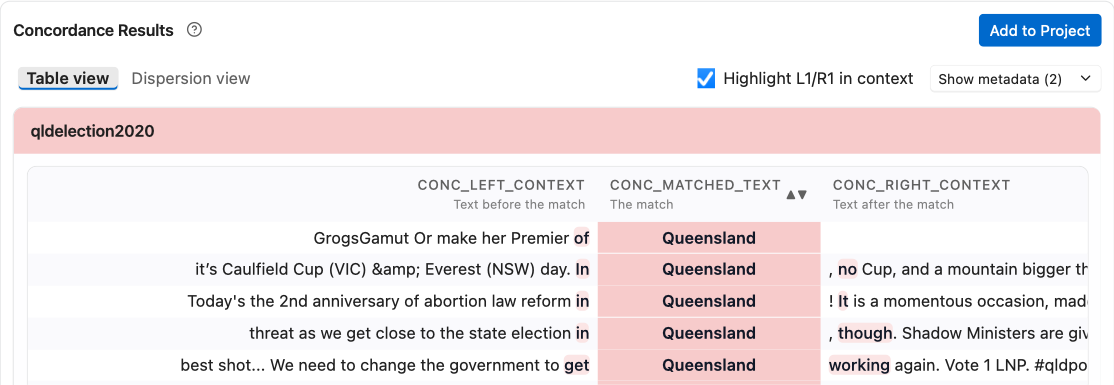
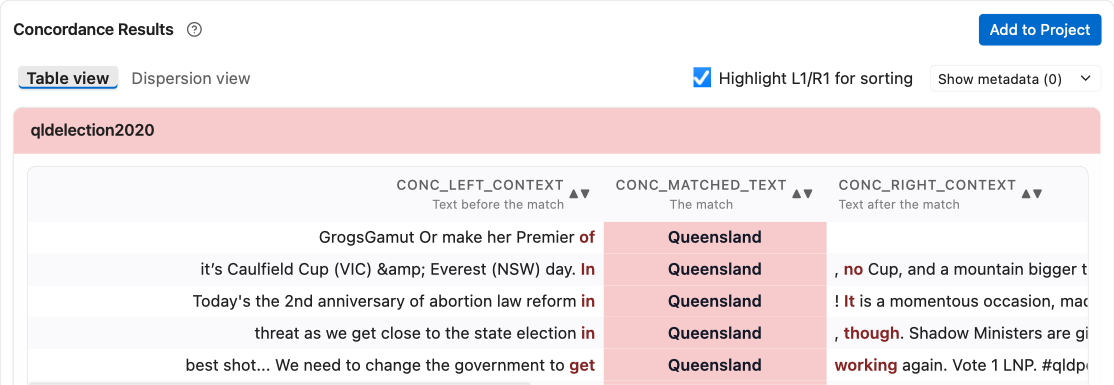
docs: sync Wordflow 0.7 docs from ldaca-wordflow v0.7 (593484c7, release 0.7.9)

diff --git a/tutorials/concordance.md b/tutorials/concordance.md
@@ -115,9 +115,9 @@ when you open it, from the data as it was when you chose Preview. See
 <h2 id="help-concordance-results">Result panel</h2>
 
 In separated Preview tables, selected source metadata headers are sortable.
-Generated scalar headers such as matched text, L1/R1, frequencies, and offsets
-show **Run to enable sorting** because Preview has not processed the
-whole Result. Full document and left/right context strings stay unsorted.
+Generated scalar headers such as the left and right contexts, matched text,
+L1/R1 and frequencies show **Run to enable sorting** because Preview has not
+processed the whole Result. The full document stays unsorted.
 
 <h3 id="help-concordance-views">Table and dispersion views</h3>
 
@@ -127,17 +127,30 @@ Table view shows one row per match. Click a row to inspect the full source
 document and its metadata. Use the metadata selector to add source columns to
 the table.
 
-![Table view after Run: the matched text is strongly highlighted, and L1 and R1 softly](tutorials/assets/concordance/table_view.png)
+![Table view after Run: the matched text is highlighted, and L1 and R1 are in the source colour](tutorials/assets/concordance/table_view.png)
 
 **L1** (`CONC_l1`) is the token immediately left of the match and **R1**
 (`CONC_r1`) is the token immediately right. Their frequency columns count each
 value across the complete Run Result. The matched-text cell always uses
 strong source-colour emphasis. The last exact, case-sensitive L1 occurrence in
-the left context and the first R1 occurrence in the right context use a softer
-source-colour tint. Empty or unmatched anchors remain plain. Turn off
-**Highlight L1/R1 in context** to hide only those inline tints for the current
-tab session. The direct L1/R1 cells remain plain and available for sorting,
-frequencies, export, and **Add to Project**.
+the left context and the first R1 occurrence in the right context are shown in
+bold text in the source colour. Empty or unmatched anchors remain plain. The direct L1/R1
+cells remain plain and available for sorting, frequencies, export, and
+**Add to Project**.
+
+**Highlight L1/R1 for sorting** is on by default and sets two things for the
+current tab session: the L1/R1 colouring in the contexts, and how the context
+headers sort.
+While it is on, clicking the left context header sorts by L1 and clicking the
+right context header sorts by R1, the usual way to read a concordance; each
+header's tooltip says so. Turn it off to show the contexts in plain text and sort each context
+alphabetically by its own text. With **Ignore punctuation** on, R1 can differ
+from the first word of the right context, so the two sorts can give different
+orders.
+
+The table leaves out where each match starts and ends in the document
+(`CONC_start_idx` and `CONC_end_idx`, character positions). A Data Block made
+with **Add to Project** from Table view still includes both columns.
 
 <h4 id="help-concordance-dispersion-view">Dispersion view</h4>
 
@@ -253,10 +266,12 @@ to each source. After Run, there is no page-local Found summary.
 
 ![Concordance Results footer after Run: Matches per page and the whole-Result summary](tutorials/assets/concordance/review_footer.png)
 
-After Run, separated Table view can sort selected metadata, matched text, L1/R1,
-their frequencies, and start/end offsets across the complete Result. Sorting is case-sensitive, and empty values come first in either direction. Equal
-values have no guaranteed secondary order. The document and full context
-headers remain plain, and the combined table remains unsorted.
+After Run, separated Table view can sort selected metadata, the left and right
+contexts (by L1 and R1 while **Highlight L1/R1 for sorting** is on), matched
+text, L1/R1 and their frequencies across the complete Result. Sorting is
+case-sensitive, and empty values come first in either direction. Equal values
+have no guaranteed secondary order. The document header remains plain, and the
+combined table remains unsorted.
 
 After Run, the density chart always summarises the complete result, not only
 the visible page.
@@ -313,7 +328,7 @@ Preview and Run stay off until you choose **Clear**. See [How Preview, Run and C
 | Ignore punctuation | On | Text mode only; punctuation remains visible but does not consume context tokens |
 | Documents per page | 20 | Controls source documents evaluated per Preview page |
 | View | Table | Returning to Concordance starts in Table view |
-| Highlight L1/R1 in context | On | Local table-display state; matched text remains emphasised when off |
+| Highlight L1/R1 for sorting | On | Local table-display state: L1/R1 shown in the source colour, and context headers sort by L1/R1; off, the contexts are plain text (matched text stays emphasised) and sort by their text |
 | Sections | 20 | 4, 5, 10, 20, 25, 50, or 100 |
 | Chart | Line | Line, Bars, Area, or Running total |
 | Term visibility after Run | All terms | Exact, case-sensitive labels |

diff --git a/tutorials/token-frequency.md b/tutorials/token-frequency.md
@@ -39,7 +39,7 @@ The Study corpus is the collection whose key words you want to find. The Referen
 Stop words are terms you want to exclude from the frequency count: commonly words like _the_, _and_, or domain-specific filler that would otherwise dominate the results.
 
 - Turn on **Enable stop words**, then type words separated by commas or newlines. Matching is case-insensitive. Disabling the filter keeps the saved list read-only.
-- Pick a list from the dropdown below the switch (**Select language**, shown as **Saved list (N words)** once the tab has a list) to append its words to your list (duplicates are skipped, so you can combine lists). The dropdown has three groups: **From other tabs** (lists saved in your other Frequency and Topic Modelling tabs), **Wordflow classic lists** (the built-in lists earlier Wordflow versions used, including the revised English list), and **Languages (stopword library)** (default lists for about 60 languages from the open-source `stopword` package). The library group shows only the language detected from the first selected Data Block, marked **(Detected)**; choose **Show all languages** to see the rest. Choose **Clear stop words** to start again from an empty list. Picking a language switches the filter on if it was off.
+- Pick a list from the dropdown below the switch (**Select language**, shown as **Saved list (N words)** once the tab has a list) to append its words to your list (duplicates are skipped, so you can combine lists). The dropdown has three groups: **From other tabs** (lists saved in your other Frequency and Topic Modelling tabs), **Wordflow classic lists** (the built-in lists earlier Wordflow versions used, including the revised English list), and **Languages (stopword library)** (default lists for about 60 languages from the open-source `stopword` package). The library group shows only the language detected from the first selected Data Block, marked **(Detected)**; choose **Show all languages** to see the rest. Choose **Clear stop words** to start again from an empty list. Picking a list switches the filter on if it was off.
 
 ![The stop words dropdown, with lists from other tabs, the classic lists, and the detected language](tutorials/assets/token_frequency/stop_words_menu.png)
 

diff --git a/tutorials/ui.md b/tutorials/ui.md
@@ -54,12 +54,16 @@ Below the tool list, the **Data Blocks** panel shows every Data Block in the act
 The **Tasks** panel sits below data selection and projects background Analyses
 from the active Project together with your retained User File Imports.
 
-- Each analysis task has the same name as its tab, for example **F-1** or
-  **JP vs AUS**, and follows the tab when you rename it. New tabs are named
+- Each analysis task is named after its tab and always starts with the tool's
+  letter: **F-1**, or **TM - JP vs AUS** for a tab you renamed "JP vs AUS"
+  (a Concordance opened from a word in Frequency reads, for example,
+  **C - yeah**). The name follows the tab when you rename it. New tabs are named
   with the tool's letter and a number: **F-1** for Frequency, **C-1** for
   Concordance, **T-1** for Trends, **TM-1** for Topic Modelling, **Q-1** for
   Quotation and **A-1** for Annotation. Numbering continues from the highest
   number used.
+- File imports start with **L** for the Data Loader, for example
+  **L - Sample data import**.
 - The finished steps of one tab share a row: click the row to see each step
   (**Preview**, **Run**, or **Add to Project**), the Data Blocks it
   used, and when it finished. A step that failed or is still running has its
@@ -72,8 +76,10 @@ from the active Project together with your retained User File Imports.
 
 - Failed and cancelled tasks are listed first, then running ones, then
   finished ones.
-- The arrow button at the right end of a row opens that task's tab (or the
-  Data Loader for a file import). Clicking anywhere else on the row shows or
+- The arrow button at the right end of a row opens that task's tab. For a file
+  import it opens the Data Loader; once the import has finished, it opens the
+  folder the files went to, and the row's details say what was imported, for
+  example "Imported 12 files (48 MB) to sample_data/ADO/reddit". Clicking anywhere else on the row shows or
   hides its details.
 - When a name is too long for the panel, its beginning and end stay visible
   and the middle fades out; rest the pointer on it to read the full name.

diff --git a/tutorials/topic-modeling.md b/tutorials/topic-modeling.md
@@ -23,7 +23,9 @@ two corpora.
 Each Data Block has an independent sampling percentage. The default is 100%.
 Lower sampling makes exploratory runs faster but can hide rare themes or make
 small topics less stable. The label reports the effective document count, for
-example **Sampling (1,380 documents)**. The **Colour** square sets the Data
+example **Sampling (1,380 documents)**. The sample uses the **Seed** setting, so
+the same Seed and percentage always pick the same documents, whichever order the
+Data Blocks are in. The **Colour** square sets the Data
 Block's colour in the bubble chart and topic lists.
 
 ![Two Data Block cards with sampling, and the model settings below them](tutorials/assets/topic_modelling/parameters.png)
@@ -94,7 +96,7 @@ you choose a fixed value.
 
 Controls stochastic dimensionality reduction. The default is 0. Keep the same
 seed to reproduce a configuration, or compare several seeds to assess topic
-stability.
+stability. The same seed also picks each Data Block's sample.
 
 <h2 id="help-topic-modeling-run">Step 4: Run the analysis</h2>
 
@@ -219,8 +221,9 @@ Without **Colour by**, every bubble uses the same opacity.
 
 **Words per topic** controls how many representative words appear in the topic
 list, search, and hover cloud. The default is 15 and the range is 3-100. Enable
-the stopword filter to apply the Tab's saved list. You can choose a language or
-edit that list while filtering is off; the switch controls filtering only.
+the stopword filter to apply the Tab's saved list. Choosing a list from the
+dropdown switches the filter on if it was off. You can edit the list while
+filtering is off.
 The dropdown's **From other tabs** group lists stop words saved in your other
 Frequency or Topic Modelling tabs; **Wordflow classic lists** offers the built-in
 lists earlier Wordflow versions used; **Languages (stopword library)** offers

diff --git a/information/concordance.md b/information/concordance.md
@@ -45,10 +45,11 @@ analysis without loading a whole-corpus result into the browser.
   right. Their frequency columns count those values across the complete Run
   Result. Table view gives matched text strong source-colour emphasis, then
   highlights the last exact L1 occurrence in the left context and first exact
-  R1 occurrence in the right context with a softer tint. Empty, missing, or
-  case-mismatched anchors remain plain. **Highlight L1/R1 in context** is on by
-  default and controls only those inline tints for the current tab session;
-  direct L1/R1 cells remain plain.
+  R1 occurrence in the right context in bold source-colour text. Empty, missing, or
+  case-mismatched anchors remain plain. **Highlight L1/R1 for sorting** is on
+  by default and, for the current tab session, controls that L1/R1 colouring and
+  makes the left and right context headers sort by L1 and R1 (off, they sort by
+  their own text); direct L1/R1 cells remain plain.
 
 - **What do Preview and Run do?**
   **Preview** works out only the page you open. **Run** can be started
